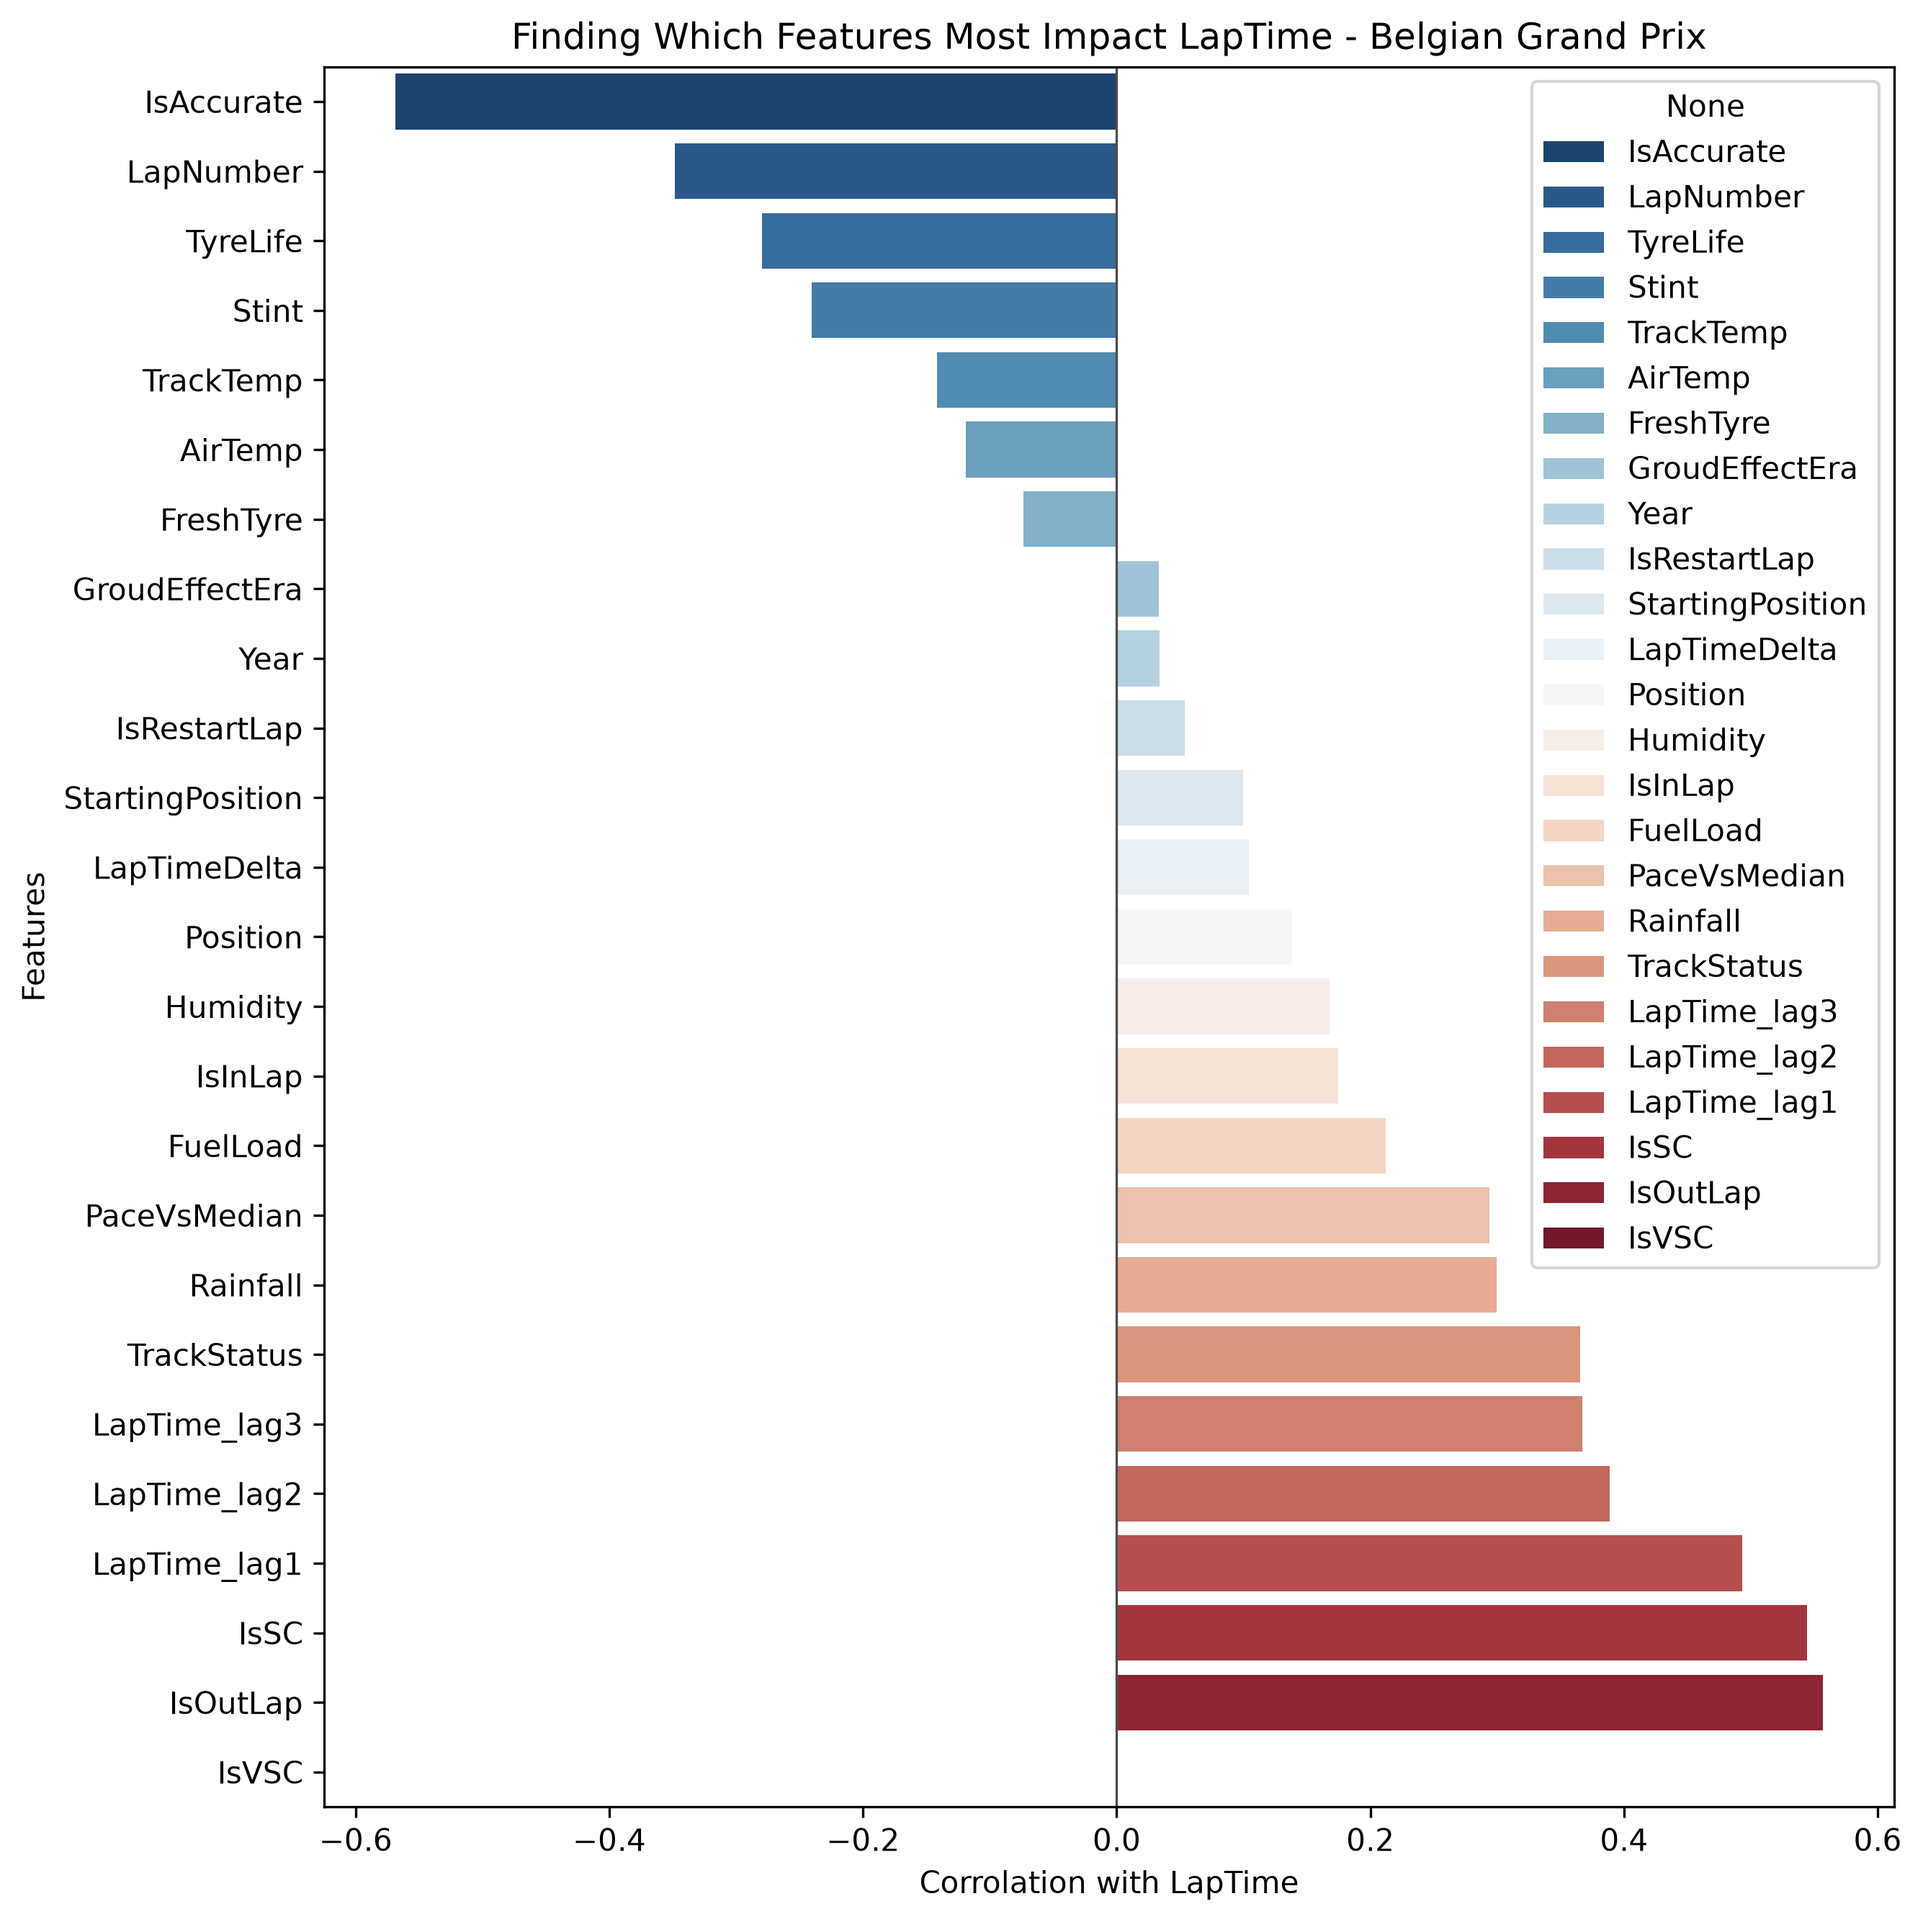
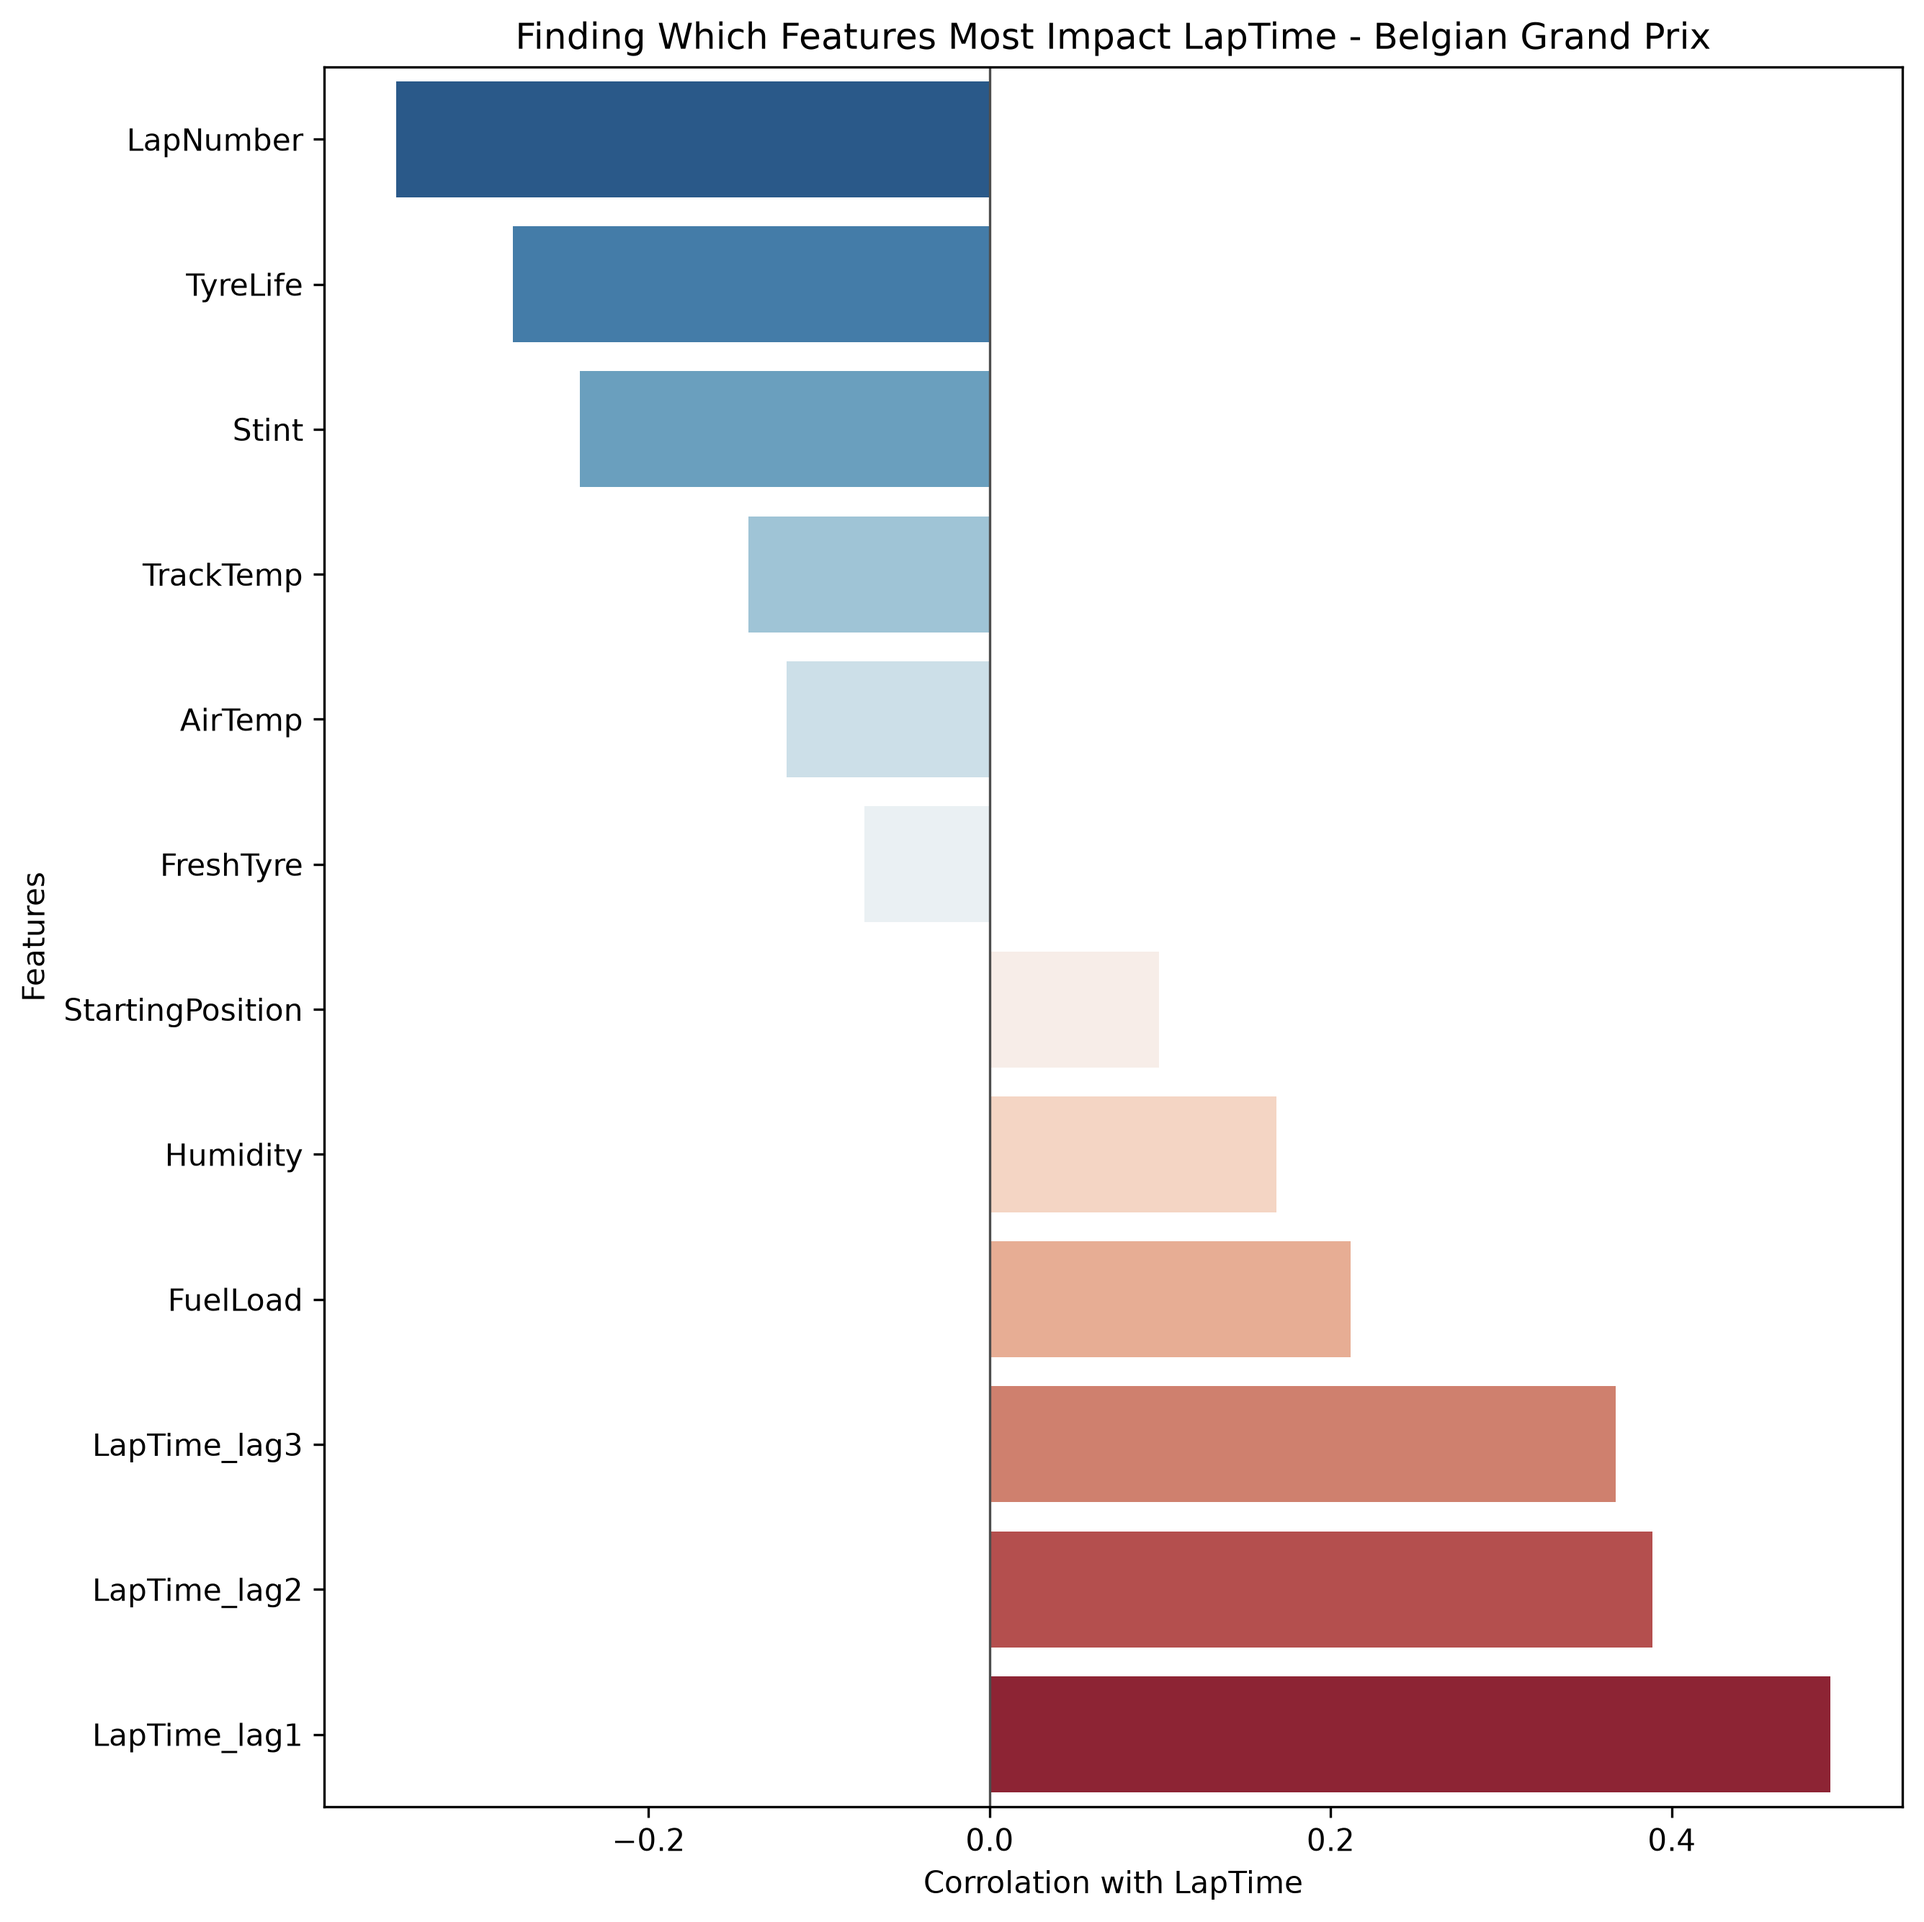
fixed plots

diff --git a/F1-Project/plot.py b/F1-Project/plot.py
@@ -11,6 +11,10 @@ FEATURES = ['Driver','Team','LapNumber','LapTime','Position','Stint','TyreLife',
             'StartingPosition','LapTimeDelta','LapTime_lag1','LapTime_lag2','LapTime_lag3','PaceVsMedian',
             'FuelLoad','GroudEffectEra','IsRestartLap']
 
+MODEL = ['LapTime','TyreLife','LapNumber','FuelLoad','Stint','Compound','FreshTyre',
+            'TrackTemp','AirTemp','Humidity','StartingPosition',
+            'LapTime_lag1','LapTime_lag2','LapTime_lag3']
+
 COMPOUND_COLOURS = {'SOFT':'red', 'MEDIUM':'yellow', 'INTERMEDIATE': 'blue', 'WET': 'blue','HARD' : 'grey'}
 
 # <--------------------------- SCATTER --------------------------->
@@ -43,11 +47,11 @@ def iqr(file):
 
 def corr_with_laptime(filename = 'all_Spanish Grand Prix', show=False, path = 'all'):
     file = pd.read_csv(os.path.join(path,filename) + '.csv')
-    d = file[FEATURES].select_dtypes(include = ['number','bool'])
-    c = d.corr()['LapTime'].drop('LapTime').sort_values() #pearson's r
+    d = file[MODEL].select_dtypes(include = ['number','bool'])
+    c = d.corr()['LapTime'].drop('LapTime').dropna().sort_values() #pearson's r
 
     plt.figure(num = 'Feature Selection', figsize=(9,9))
-    sns.barplot(x=c.values,y=c.index,hue=c.index,legend=True,palette='RdBu_r')
+    sns.barplot(x=c.values,y=c.index,hue=c.index,legend=False,palette='RdBu_r')
     plt.axvline(0,color='0.3', linewidth=0.8)#.axvline adds a grey line at x=0
     plt.xlabel('Corrolation with LapTime')
     plt.ylabel('Features')

diff --git a/F1-Project/buildDataset.py b/F1-Project/buildDataset.py
@@ -67,7 +67,7 @@ def add_features(df):
     for k in (1,2,3):
         df[f'LapTime_lag{k}'] = g['LapTime'].shift(k)
 
-    # field-relative pace: how well is th driver doing on lap x compared to everyone else?
+    # field-relative pace: how well is th driver doing on lap x compared to everyone else?  
     field_median = df.groupby(['Year','LapNumber'])['LapTime'].transform('median')
     df['PaceVsMedian'] = df['LapTime'] - field_median
 
